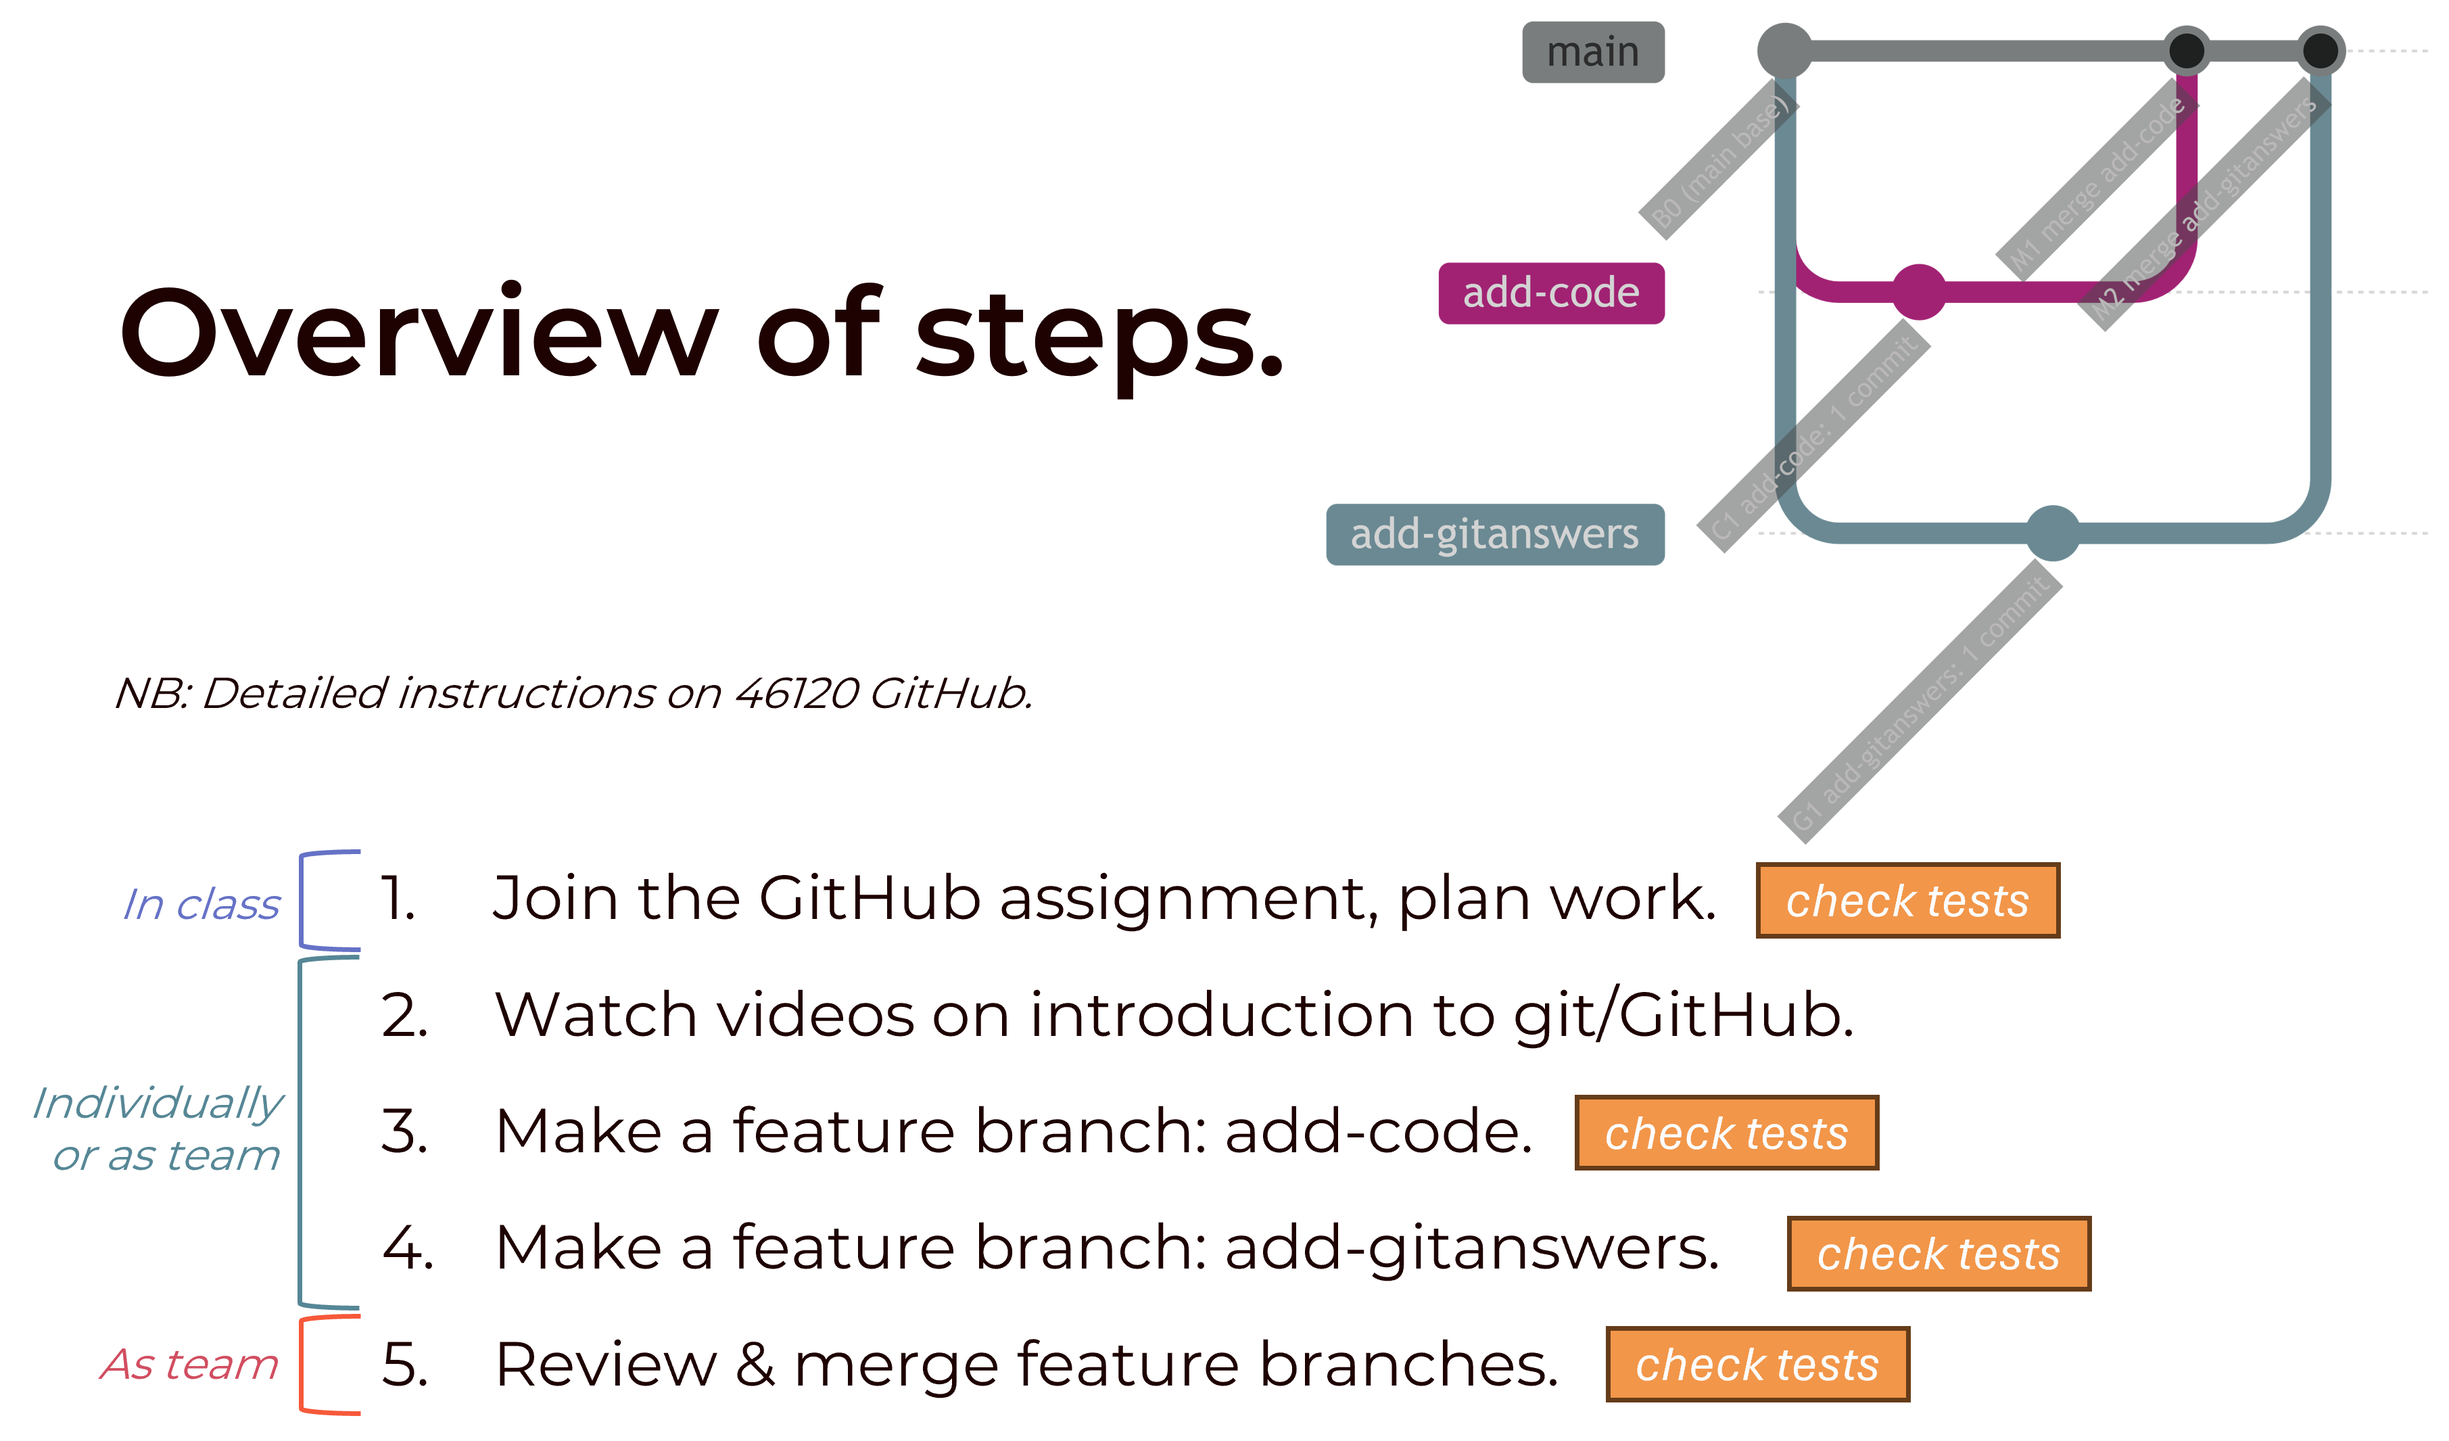
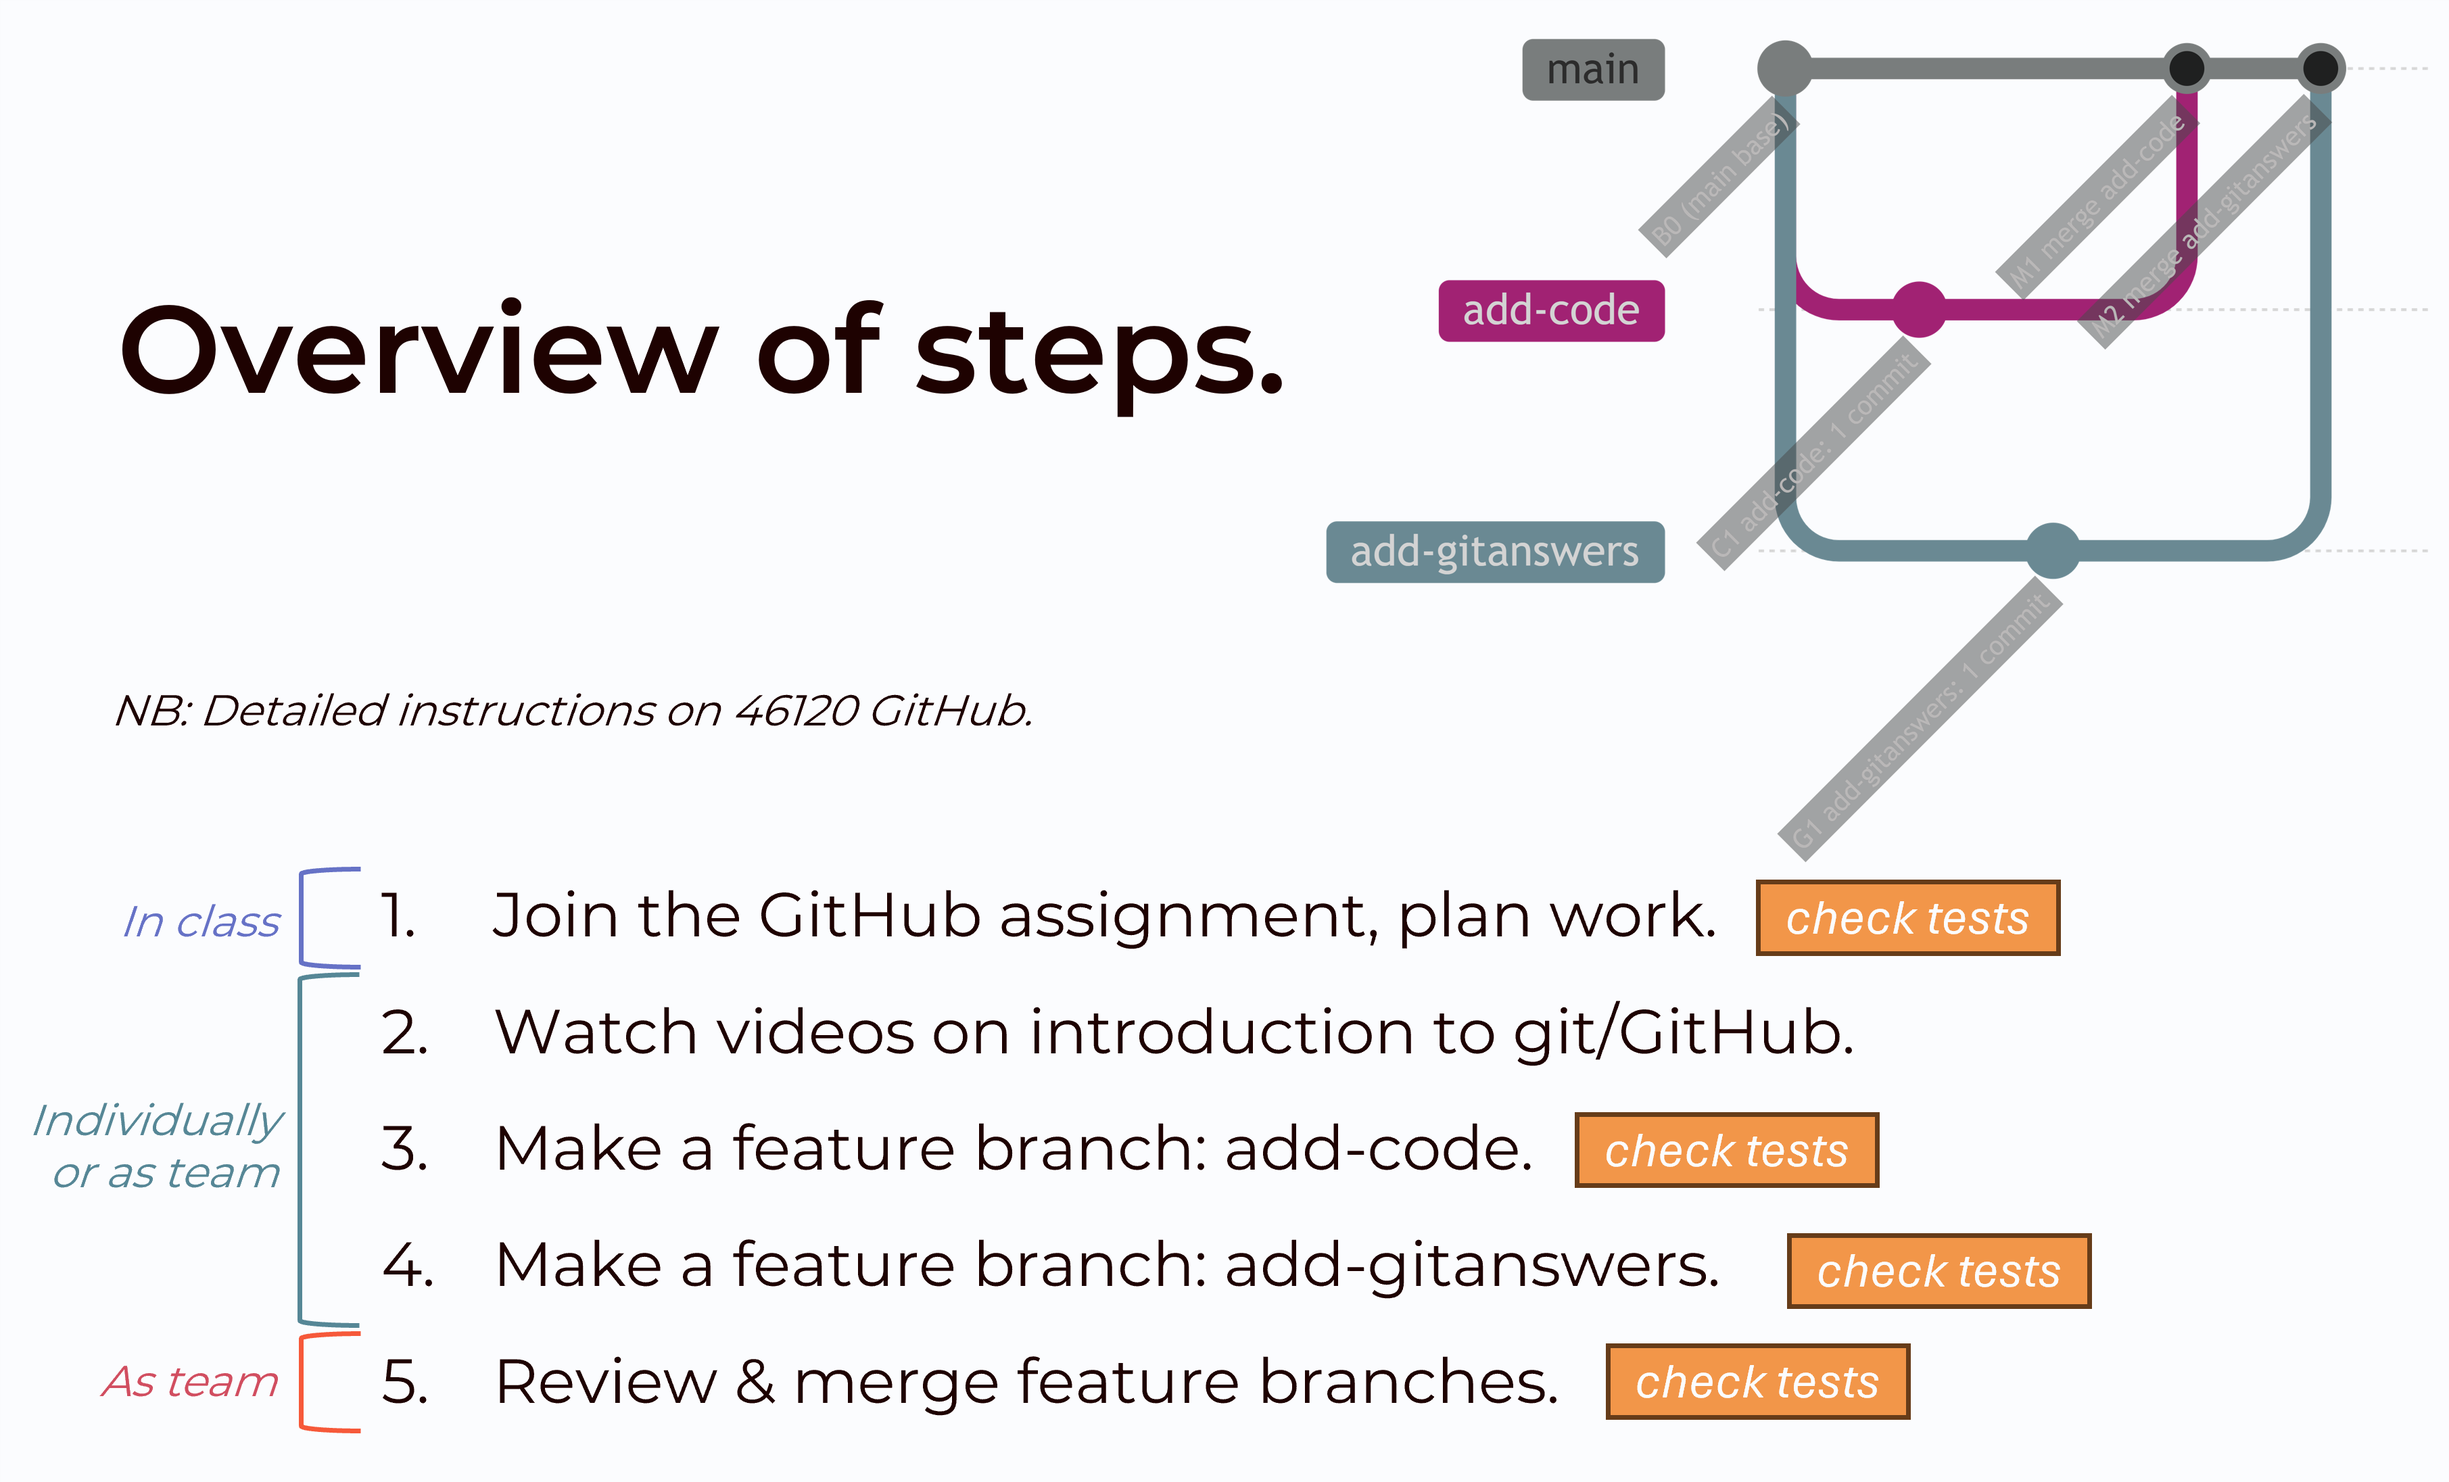
tweaking text and image background

diff --git a/week01_intro_git/README.md b/week01_intro_git/README.md
@@ -14,13 +14,11 @@ In a team of 2 to 3, create, review, and merge two “feature branches” such t
 ## Homework due next week
 
 These instructions intentionally do not spell out every step. A good portion
-of scientific programming is finding/utilizing tutorials and guides online. We also expect you to
-collaborate with your group members and, of course, post in the Slack chat or come to office hours as needed.
+of scientific programming is finding/utilizing tutorials and guides online. Collaborate with group members and, of course, post in the Slack chat or come to office hours as needed.
 You are done at the end of Part 3, when all PRs are merged and the tests pass.
 
-<div style="background:white; display:inline-block; padding:10px;">
-  <img src="overview-homework.png" alt="Overview of steps" width="604" height="355">
-</div>
+<img src="overview-homework.png" alt="Overview of steps" width="604" height="355">
+
 
 ### PART 1: In class with P0 Team
 
@@ -33,17 +31,17 @@ You are done at the end of Part 3, when all PRs are merged and the tests pass.
 1. Other group members should now click the same link on Learn for the GitHub assignment BUT join the existing team, "P0 X".  
    * If you are asked to link your GitHub account to a "student identifier", the identifier should be your student ID or DTU username.  
 1. Everyone clones the new team repo locally to their computer.  
+1. Discuss with your team:  
+   * Who will (1) work on and who will (2) review which feature branches.  
+      * An author of a feature branch may not be the reviewer of that branch.  
+   * If you will complete Part 2 together, individually, or some blend of the two. Remember pair programming is encouraged!  
+   * When you will meet to complete Part 3 and whether you will meet physically or virtually.  
 1. Run the week1 test, which should FAIL for now:  
     * Open Anaconda prompt.  
     * Change directory to your team repo.  
     * Run pytest on the week1 test: `pytest test_week1.py`.  
     * There should be some white and red text and notes about failures, like this:  
       <img src="screenshot_fail.png" alt="Failing test" width="550" height="60">  
-1. Discuss with your team:  
-   * Who will work on and who will review which feature branches.  
-      * An author of a feature branch may not be the reviewer of that branch.  
-   * If you will complete Part 2 together, individually, or some blend of the two. Remember pair programming is encouraged!  
-   * When you will meet to complete Part 3 and whether you will meet physically or virtually.  
 1. Move onto the next part.
 
 ### PART 2: Individually or with your team
@@ -55,9 +53,9 @@ Work in other parts is distributed per team's in-class discussion (Part 1).
 
 *NB: In general, you should not edit any test files provided by the instructors.*
 
-1. Re-run the week1 tests using pytest, if you do not have the Anaconda Prompt still open.  
+1. Re-run the week1 tests using pytest if you do not still have the Anaconda Prompt open.  
 1. Open the `test_week1.py` file in VS Code.  
-1. Look through the functions. In your own words, what is each function doing?  
+1. Look through the functions. How many tests are there? In your own words, what is each function doing?  
 1. Compare the pytest output to the functions. In your own words, why is each test failing? What could you do to make each test pass?  
 
 #### B: Watch videos/tutorials
@@ -78,26 +76,26 @@ Work in other parts is distributed per team's in-class discussion (Part 1).
 1. Create a folder called `preclass_assignment` in the top level of the repo. In this folder, place your solution to the preparatory Python exercises you completed before Week 1.
 1. Add/commit your code to the branch.  
 1. Push your branch to GitHub.  
-1. Open a Pull Request (PR) for your feature branch and assign one of your group members as a reviewer.  
+1. Open a Pull Request (PR) for your feature branch and assign the pre-agreed group member as the reviewer.  
 
 #### D: Make feature branch/PR with answers to git questions
 
-*Looking for a challenge? Have 2+ team members collaboratively work on GitAnswers.md. Whether this means different-author commits on the same branch or multiple PRs is up to you. Bonus points if you get merge conflicts!*
+*Looking for a challenge? Have 2+ team members collaboratively work on GitAnswers.md. Whether this means different-author commits on the same branch or multiple PRs is up to you. Bonus points if you create/resolve merge conflicts!*
 
 1. Create a new branch to add your answers to git questions and name it something that describes the feature this branch is implementing (e.g., `add-gitanswers`).  
 1. Create a text file called `GitAnswers.md` in the top level of the repo, add your answers to the
    the git questions below, and push it.  
-1. Open a Pull Request (PR) for your feature branch and assign one of your group members as a reviewer.  
+1. Open a Pull Request (PR) for your feature branch and assign the pre-agreed group member as the reviewer.  
 
 ### PART 3: Together with P0 Team
 
 Review and merge the feature branches. Make sure you watched the tutorial on how to review a PR on GitHub.
 
-*NB: You don't always need to review PRs synchronously as a team. But it's good practice when getting started or with complex PRs.*
+*NB: You don't always need to review PRs synchronously as a team. But it's good practice when getting started with PRs or with complex PRs.*
 
 1. Choose one of the open PRs.  
-1. The reviewer of a PR shows their screen and goes through the Conversation, Commits, and Files Changed in the PR. Discuss with the team.  
-1. The reviewer starts a Review based on the discussion with the team. The review can be Comment, Approve, or Request changes at the reviewer's discretion.  
+1. The reviewer of a PR shows their screen and goes through the "Conversation", "Commits", and "Files Changed" tabs in the PR. Discuss with the team.  
+1. The reviewer starts a Review based on the discussion with the team. The final review decision can be Comment, Approve, or Request changes at the reviewer's discretion.  
 1. If any changes are requested, the author of the PR addresses them.  
 1. Once the PR is eventually approved, the author can merge it.  
 1. All team members update their local copies of `main` branch.  
